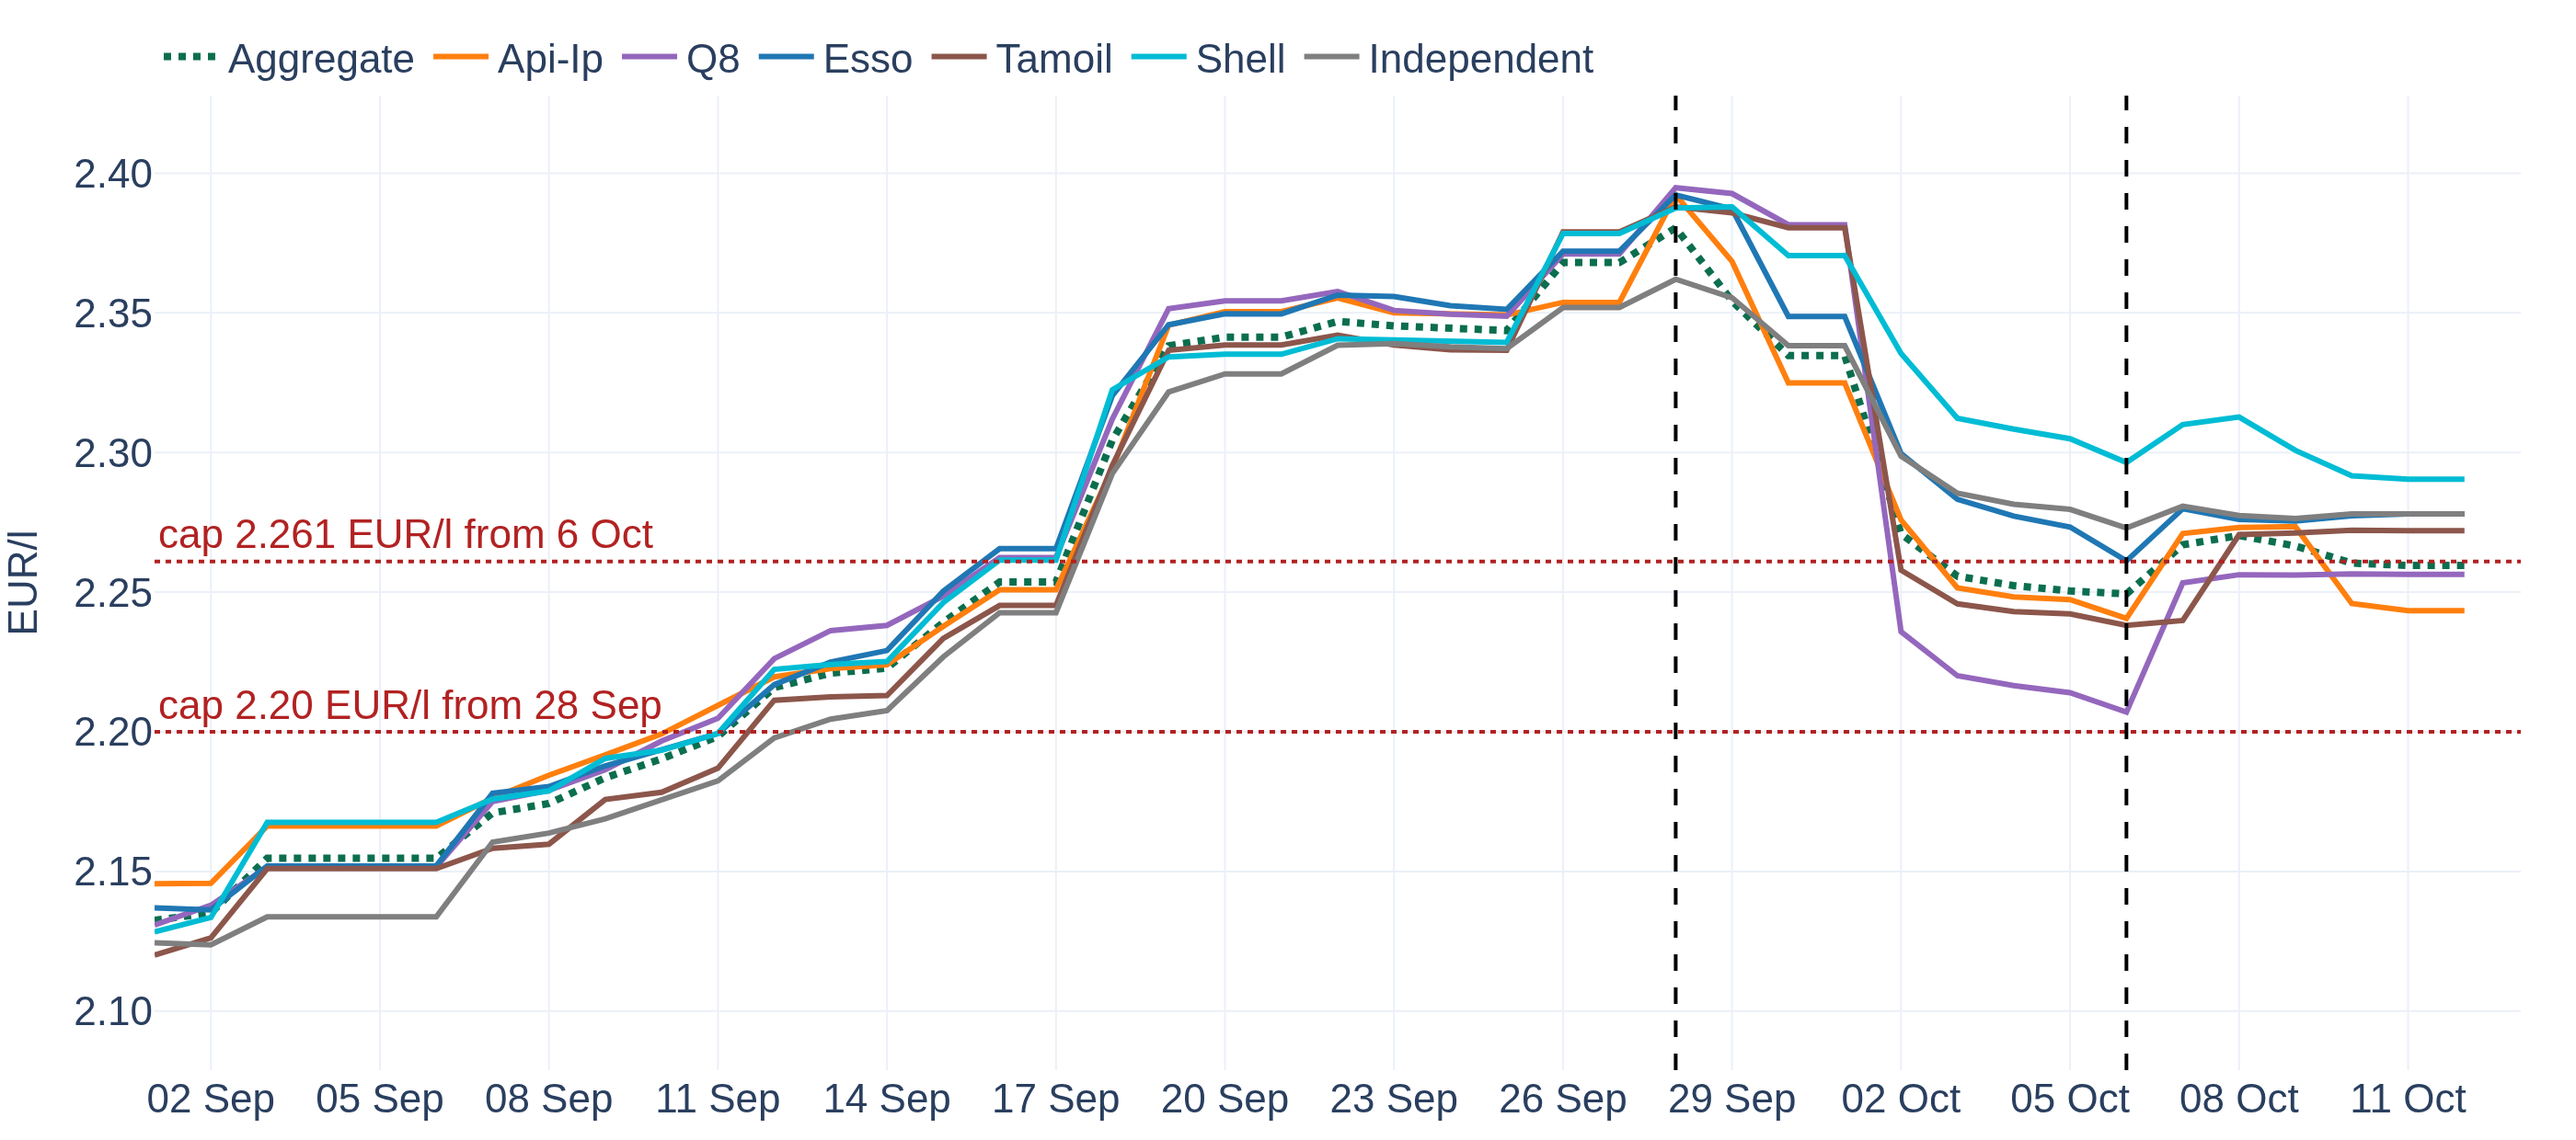
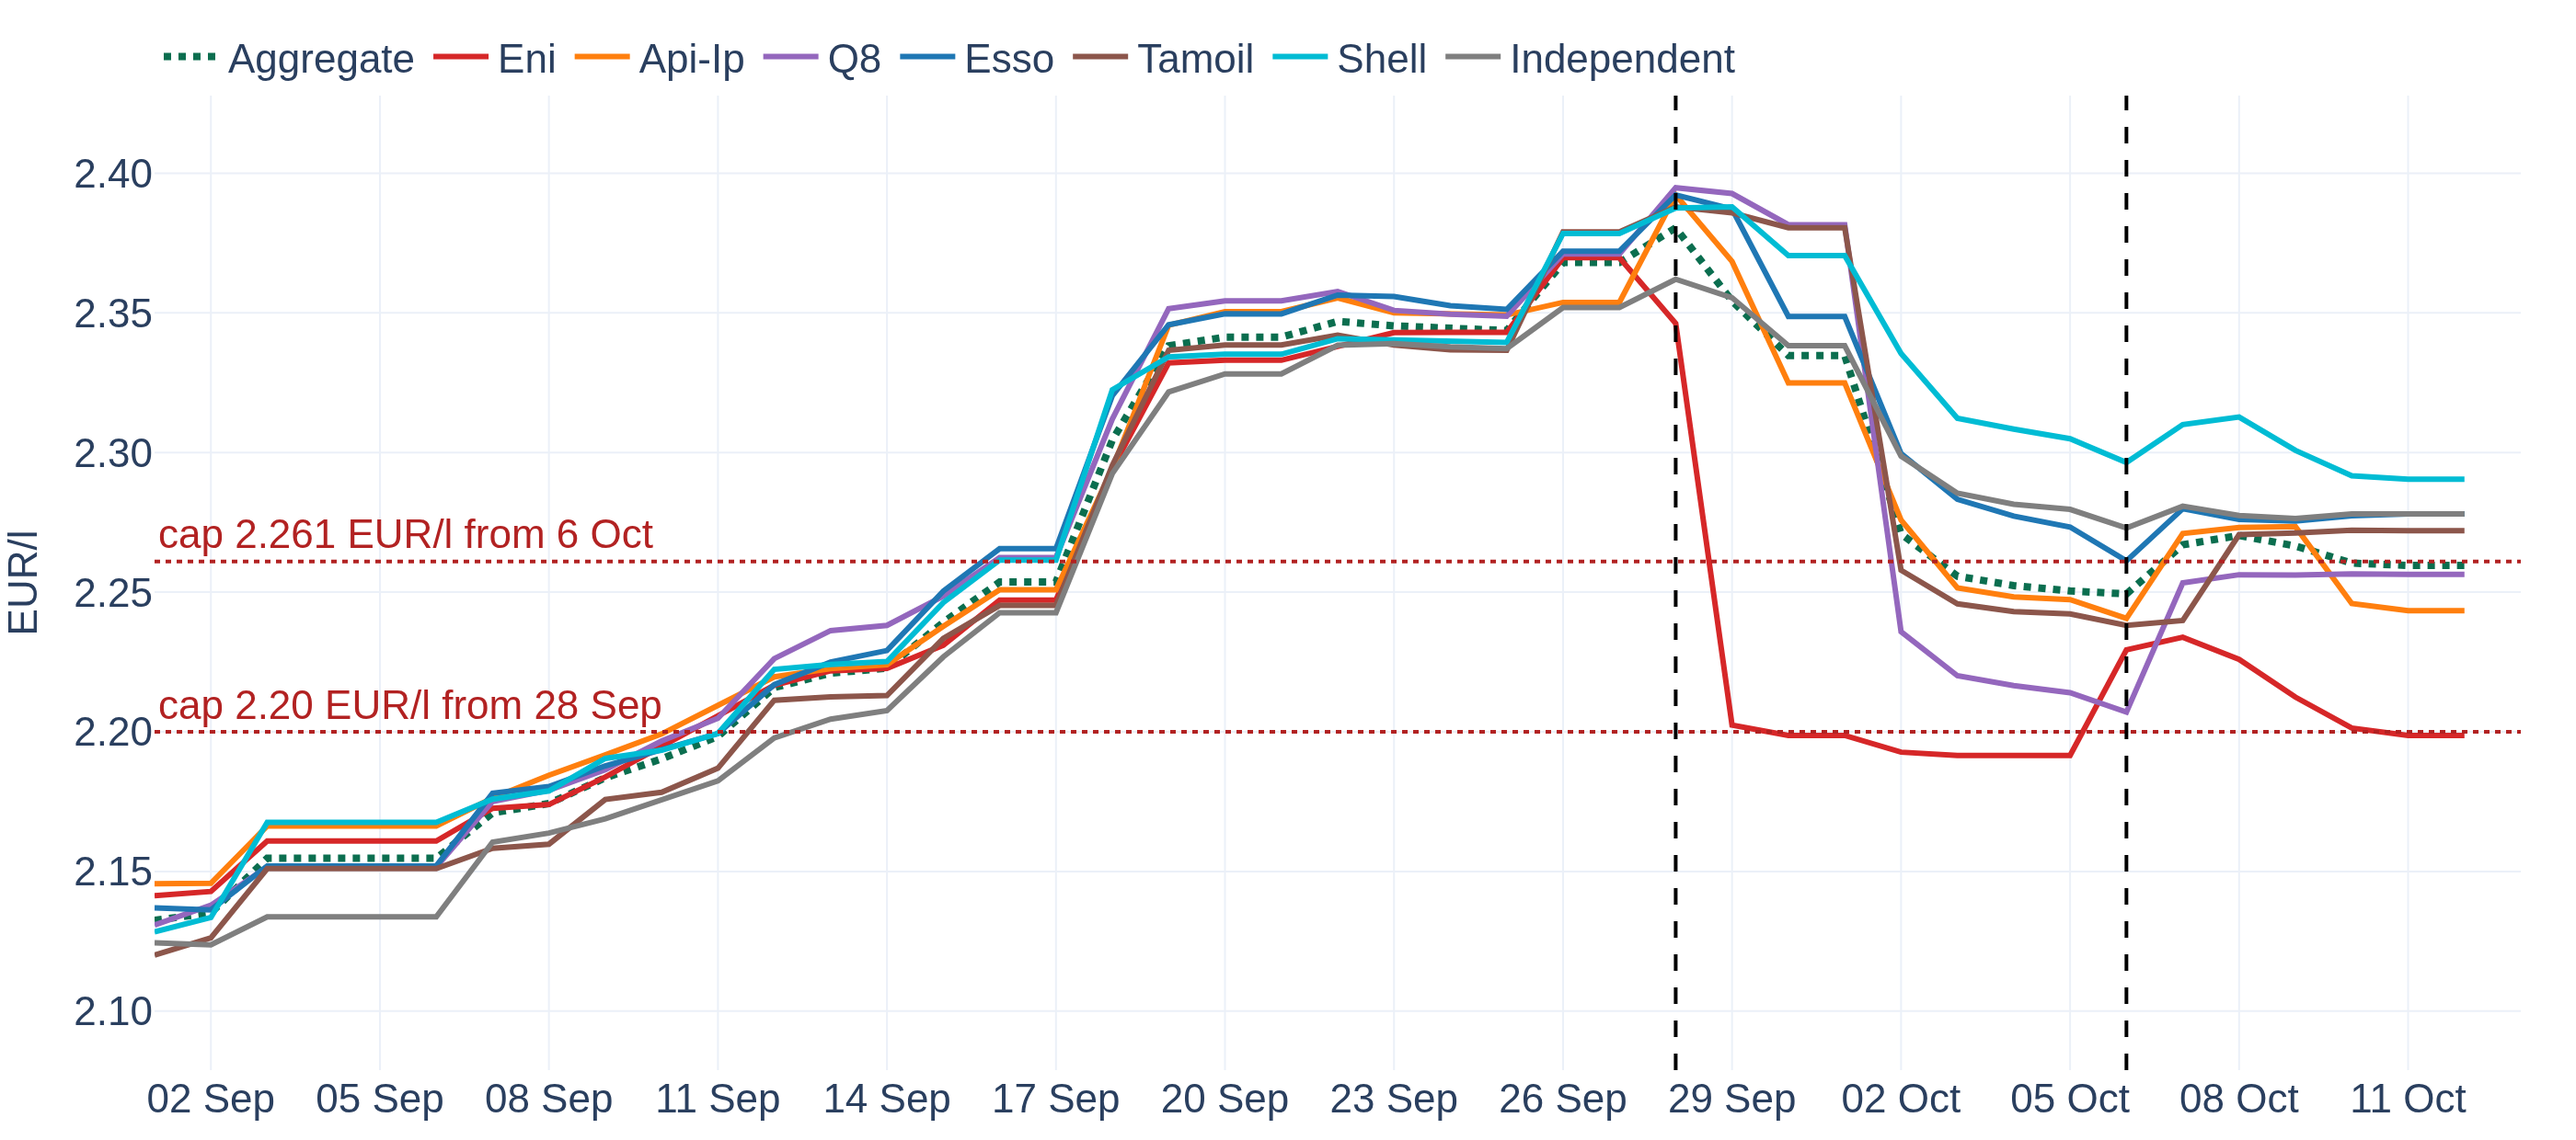
Fix figures 8-9: rename data value 'Agip Eni' to 'Eni'
The previous commit renamed only the legend labels, so the brand filter
(canonical_name == 'Eni') matched nothing and the Eni line vanished
from both charts. The data column is now renamed when read, so filter
and label agree.

diff --git a/adoption/make_report_figs.py b/adoption/make_report_figs.py
@@ -204,6 +204,13 @@ def brand_price_chart(fuel: str, show_excise_vline: bool, stem: str) -> Path:
     thick lines, 3-day ticks, tight y range incl. cap lines)."""
     daily = pl.read_csv(config.TABLES_DIR / "brand_daily_prices.csv",
                         try_parse_dates=True)
+    # data value is 'Agip Eni'; display/rebrand as 'Eni'
+    daily = daily.with_columns(
+        pl.when(pl.col("canonical_name") == "Agip Eni")
+        .then(pl.lit("Eni"))
+        .otherwise(pl.col("canonical_name"))
+        .alias("canonical_name")
+    )
     d = daily.filter(pl.col("fuel") == fuel).filter(pl.col("date") >= CUT)
 
     fig = go.Figure()
